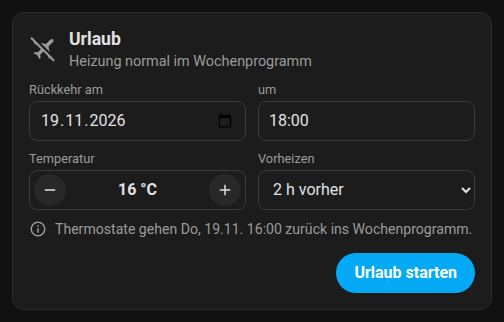
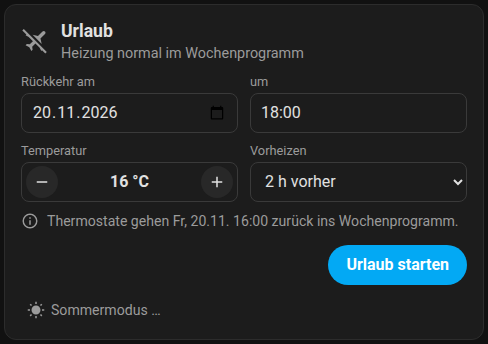
Topology: show MAX! address and serial per device; remove ROADMAP.md
- each device box in the topology picture gets a third line with the MAX!
  address and serial number (requested in #3)
- ROADMAP.md only said that all ideas were implemented; requests are tracked
  in the GitHub issues now
- vacation card screenshot shows the summer mode link

Changed region(s): [[0.0307, 0.0621, 1.0, 0.9317], [0.0615, 0.8696, 0.3074, 0.9317], [0.4303, 0.3106, 0.4611, 0.3727]]

diff --git a/custom_components/cul_max/topology.py b/custom_components/cul_max/topology.py
@@ -8,7 +8,7 @@ ROOM_WIDTH = 400
 ROOM_GAP = 16
 COLUMNS = 3
 NODE_WIDTH = 158
-NODE_HEIGHT = 50
+NODE_HEIGHT = 64  # name, status, address/serial
 NODE_GAP = 10
 ROOM_HEADER = 36
 LEFT_X = 14
@@ -50,6 +50,7 @@ class TopologyNode:
     kind: str
     name: str
     status: str = ""
+    ident: str = ""  # MAX! address and serial number
     virtual: bool = False
     problems: list[str] = field(default_factory=list)
     notes: list[str] = field(default_factory=list)
@@ -256,7 +257,12 @@ def render_topology_svg(nodes: list[TopologyNode], edges: list[TopologyEdge], *,
                     f'<text x="{x + 9}" y="{y0 + 35}" font-size="11.5" fill="{COLORS["muted"]}">'
                     f"{escape(_short(node.status, 26))}</text>"
                 )
-            line_y = y0 + 35 + LINE_HEIGHT
+            if node.ident:
+                out.append(
+                    f'<text x="{x + 9}" y="{y0 + 50}" font-size="10.5" font-family="ui-monospace, Menlo, Consolas, monospace" '
+                    f'fill="{COLORS["muted"]}">{escape(_short(node.ident, 28))}</text>'
+                )
+            line_y = y0 + 50 + LINE_HEIGHT
             for text, colour in _note_lines(node):
                 out.append(
                     f'<text x="{x + 9}" y="{line_y}" font-size="11" fill="{colour}">'

diff --git a/custom_components/cul_max/coordinator.py b/custom_components/cul_max/coordinator.py
@@ -3093,6 +3093,9 @@ class CulMaxCoordinator:
                     kind=kind,
                     name=name,
                     status=status,
+                    ident=" · ".join(
+                        part for part in (device.address, device.serial_number) if part
+                    ),
                     virtual=device.is_virtual,
                     problems=problems,
                     notes=notes,

diff --git a/README.md b/README.md
@@ -465,6 +465,13 @@ Repository layout:
 
 ## Changelog
 
+### Unreleased
+
+- Topology picture: every device also shows its MAX! address and serial
+  number (suggested by [@adampr1](https://github.com/adampr1), #3).
+- Removed the outdated `ROADMAP.md`; ideas and requests live in the GitHub
+  issues.
+
 ### 0.6.6
 
 - English and German throughout: dashboard cards and error messages follow
